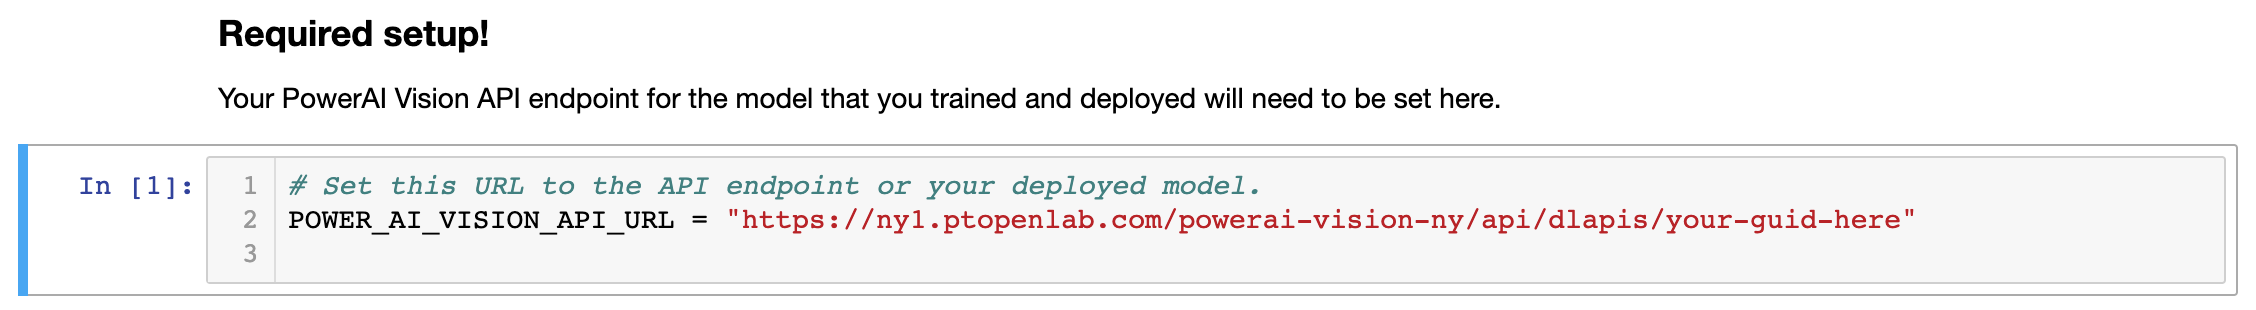
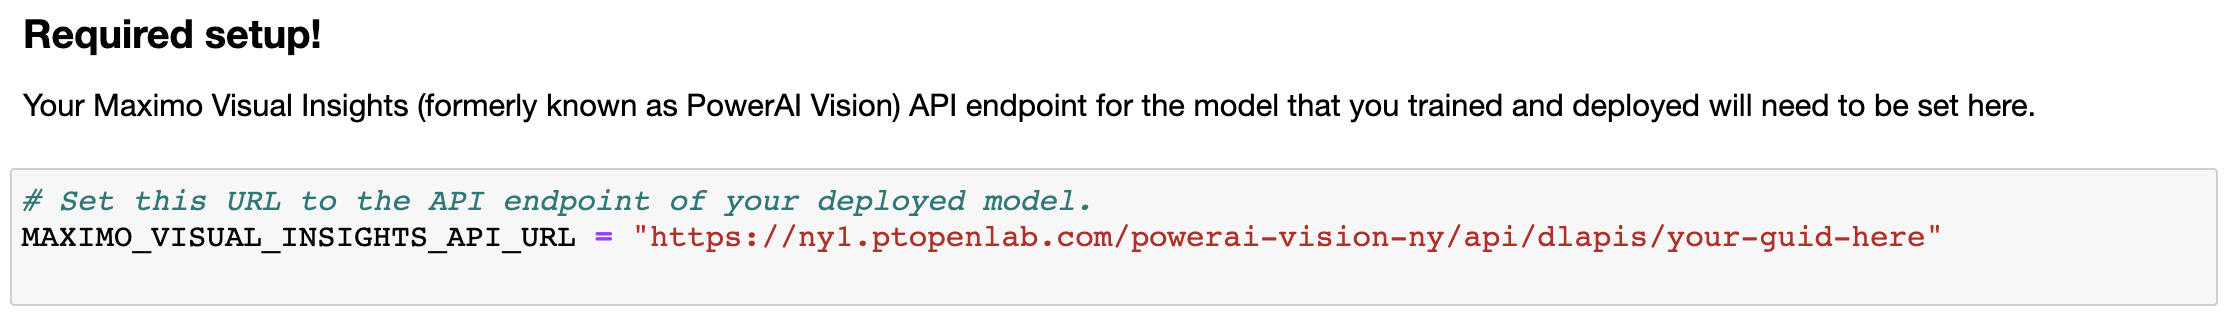
rename powerAI to Maximo Visual Insights (#50)
* change powerAI to Maximo Visual Insights to reflect rebrand
* add image of API url in steps
* add the API URL
* change variable name for URL
* add comment to show where to find annotated video

Changed region(s): [[0.0, 0.4645, 1.0, 0.9581], [0.0, 0.2613, 0.9274, 0.3774], [0.0, 0.0581, 0.2164, 0.1742]]

diff --git a/README.md b/README.md
@@ -2,19 +2,21 @@
 
 ![video-to-gif](doc/source/images/output-video-as-gif.gif)
 
+**Note: This repo has been updated to use Maximo Visual Inspection (formerly known as PowerAI Vision). Everything is the same except for the name itself.**
+
 Whether you are counting cars on a road or products on a conveyer belt, there are many use cases for computer vision with video. With video as input, automatic labeling can be used to create a better classifier with less manual effort. This code pattern shows you how to create and use a classifier to identify objects in motion and then track the objects and count them as they enter designated regions of interest.
 
-In this code pattern, we will create a video car counter using PowerAI Vision Video Data Platform, OpenCV and a Jupyter Notebook. We'll use a little manual labeling and a lot of automatic labeling to train an object classifier to recognize cars on a highway. We'll load another car video into a Jupyter Notebook where we'll process the individual frames and annotate the video.
+In this code pattern, we will create a video car counter using Maximo Visual Inspection, OpenCV and a Jupyter Notebook. We'll use a little manual labeling and a lot of automatic labeling to train an object classifier to recognize cars on a highway. We'll load another car video into a Jupyter Notebook where we'll process the individual frames and annotate the video.
 
 We'll use our deployed model for inference to detect cars on a sample of the frames at a regular interval. We'll use OpenCV to track the cars from frame to frame in between inference. In addition to counting the cars as they are detected, we'll also count them as they cross a "finish line" for each lane and show cars per second.
 
-Credit goes to Michael Hollinger for his initial notebook counting objects with the PowerAI Vision Video Data Platform.
+Credit goes to Michael Hollinger for his initial notebook counting objects with PowerAI Vision.
 
 When the reader has completed this code pattern, they will understand how to:
 
 * Use automatic labeling to create an object detection classifier from a video
-* Process frames of a video using a Jupyter Notebook, OpenCV, and PowerAI Vision
-* Detect objects in video frames with PowerAI Vision
+* Process frames of a video using a Jupyter Notebook, OpenCV, and Maximo Visual Inspection (formerly known as PowerAI Vision)
+* Detect objects in video frames with Maximo Visual Inspection
 * Track objects from frame to frame with OpenCV
 * Count objects in motion as they enter a region of interest
 * Annotate a video with bounding boxes, labels and statistics
@@ -23,16 +25,14 @@ When the reader has completed this code pattern, they will understand how to:
 
 ## Flow
 
-1. Upload a video using the PowerAI Vision web UI.
+1. Upload a video using the Maximo Visual Inspection web UI.
 2. Use automatic labeling and train a model.
-3. Deploy the model to create a PowerAI Vision inference API.
+3. Deploy the model to create a Maximo Visual Inspection (formerly known as PowerAI Vision) inference API.
 4. Use a Jupyter Notebook to detect, track, and count cars in a video.
 
 ## Included components
 
-* [IBM Power Systems](https://www.ibm.com/it-infrastructure/power): A server built with open technologies and designed for mission-critical applications.
-* [IBM Power AI](https://www.ibm.com/us-en/marketplace/deep-learning-platform): A software platform that makes deep learning, machine learning, and AI more accessible and better performing.
-* [IBM PowerAI Vision Technology Preview](https://developer.ibm.com/linuxonpower/deep-learning-powerai/technology-previews/powerai-vision/): A complete ecosystem for labeling datasets, training, and deploying deep learning models for computer vision.
+* [IBM Maximo Visual Inspection](https://www.ibm.com/products/ibm-maximo-visual-inspection): Rapidly unleash the power of computer vision for inspection automation without deep learning expertise.
 * [Jupyter Notebook](https://jupyter.org/): An open source web application that allows you to create and share documents that contain live code, equations, visualizations, and explanatory text.
 * [OpenCV](https://opencv.org): Open source computer vision library.
 * [Nimbix Cloud Computing Platform](https://www.nimbix.net/): An HPC & Cloud Supercomputing platform enabling engineers, scientists & developers, to build, compute, analyze, and scale simulations in the cloud.
@@ -53,19 +53,20 @@ When the reader has completed this code pattern, they will understand how to:
 
 ### PowerAI Vision
 
-This code pattern requires PowerAI Vision.
-Go [here](https://developer.ibm.com/linuxonpower/deep-learning-powerai/vision/)
-to learn more about trial access (when available).
+This code pattern requires Maximo Visual Inspection (formerly known as PowerAI Vision).
 
-*This code pattern has been updated with screenshots and instructions for IBM PowerAI Vision 1.1.3.*
+Go [here](https://www.ibm.com/support/pages/ibm-maximo-visual-inspection)
+to learn more about trial access (Scroll down to the `Give it a try` section).
+
+*This code pattern has been updated with screenshots and instructions for PowerAI Vision 1.1.3, but the instructions are the same for IBM Maximo Visual Insights.*
 
 ### Jupyter Notebooks
 
-The code included in this code pattern runs in a Jupyter Notebook. The notebook itself does not require PowerAI or Power Systems (only access to the deployed API). To run the Jupyter Notebook locally, install it using Anaconda.  The installation instructions are [here](https://jupyter.readthedocs.io/en/latest/install.html).
+The code included in this code pattern runs in a Jupyter Notebook. The notebook itself does not require Maximo Visual Inspection or Power Systems (only access to the deployed API). To run the Jupyter Notebook locally, install it using Anaconda.  The installation instructions are [here](https://jupyter.readthedocs.io/en/latest/install.html).
 
 ## Steps
 
-1. [Create a dataset in PowerAI Vision](#1-create-a-dataset-in-powerai-vision)
+1. [Create a dataset in Maximo Visual Inspection](#1-create-a-dataset-in-maximo-visual-inspection)
 2. [Train and deploy](#2-train-and-deploy)
 3. [Automatic labeling](#3-automatic-labeling)
 4. [Train and deploy](#4-train-and-deploy)
@@ -74,9 +75,8 @@ The code included in this code pattern runs in a Jupyter Notebook. The notebook 
 
 > Hint: If you need a shortcut, you can import the dataset from `data/examples/dataset_auto_labeled.zip`, train and deploy that dataset, and then run the notebook (but you'll get more out of this if you go through all the steps).
 
-### 1. Create a dataset in PowerAI Vision
-
-To create a new dataset for object detection training from a video, use the PowerAI Vision UI and start with a small manually annotated dataset (we'll expand on it with automatic labeling later).
+### 1. Create a dataset in Maximo Visual Inspection
+To create a new dataset for object detection training from a video, use the Maximo Visual Inspection  UI and start with a small manually annotated dataset (we'll expand on it with automatic labeling later).
 
 * Download the video to use to train the dataset from [here](https://raw.githubusercontent.com/IBM/powerai-counting-cars/master/data/training_video.mp4). Use the `Download` button to create `training_video.mp4` in your browser's Downloads folder.
 
@@ -228,11 +228,11 @@ Example compressed and converted to gif:
   > If you are using a trial environment, your model deployment may be limited to 1 hour. Simply deploy the model again and run the notebook over (or from where the errors started). Using cached results allows the notebook to continue where it left off.
 
 ## Links
-
+* [Maximo Visual Inspection Learning Path](https://developer.ibm.com/technologies/vision/series/learning-path-powerai-vision/): From computer vision basics to creating your own apps.
+* [Maximo Visual Inspection Object Detection](https://github.com/IBM/powerai-vision-object-detection)
 * [Computer vision](https://en.wikipedia.org/wiki/Computer_vision): Read about computer vision on Wikipedia.
 * [Object detection](https://en.wikipedia.org/wiki/Object_detection): Read about object detection on Wikipedia.
 * [Artificial intelligence](https://www.entrepreneur.com/article/283990): Can artificial intelligence identify pictures better than humans?
-* [From the developers](https://developer.ibm.com/linuxonpower/2017/08/30/ibm-powerai-vision-speeds-transfer-learning-greater-accuracy-real-world-example/): IBM PowerAI Vision speeds transfer learning with greater accuracy — a real world example.
 * [Artificial intelligence and machine learning](https://developer.ibm.com/technologies/artificial-intelligence/): Build artificial intelligence functions into your app.
 
 ## Learn more
